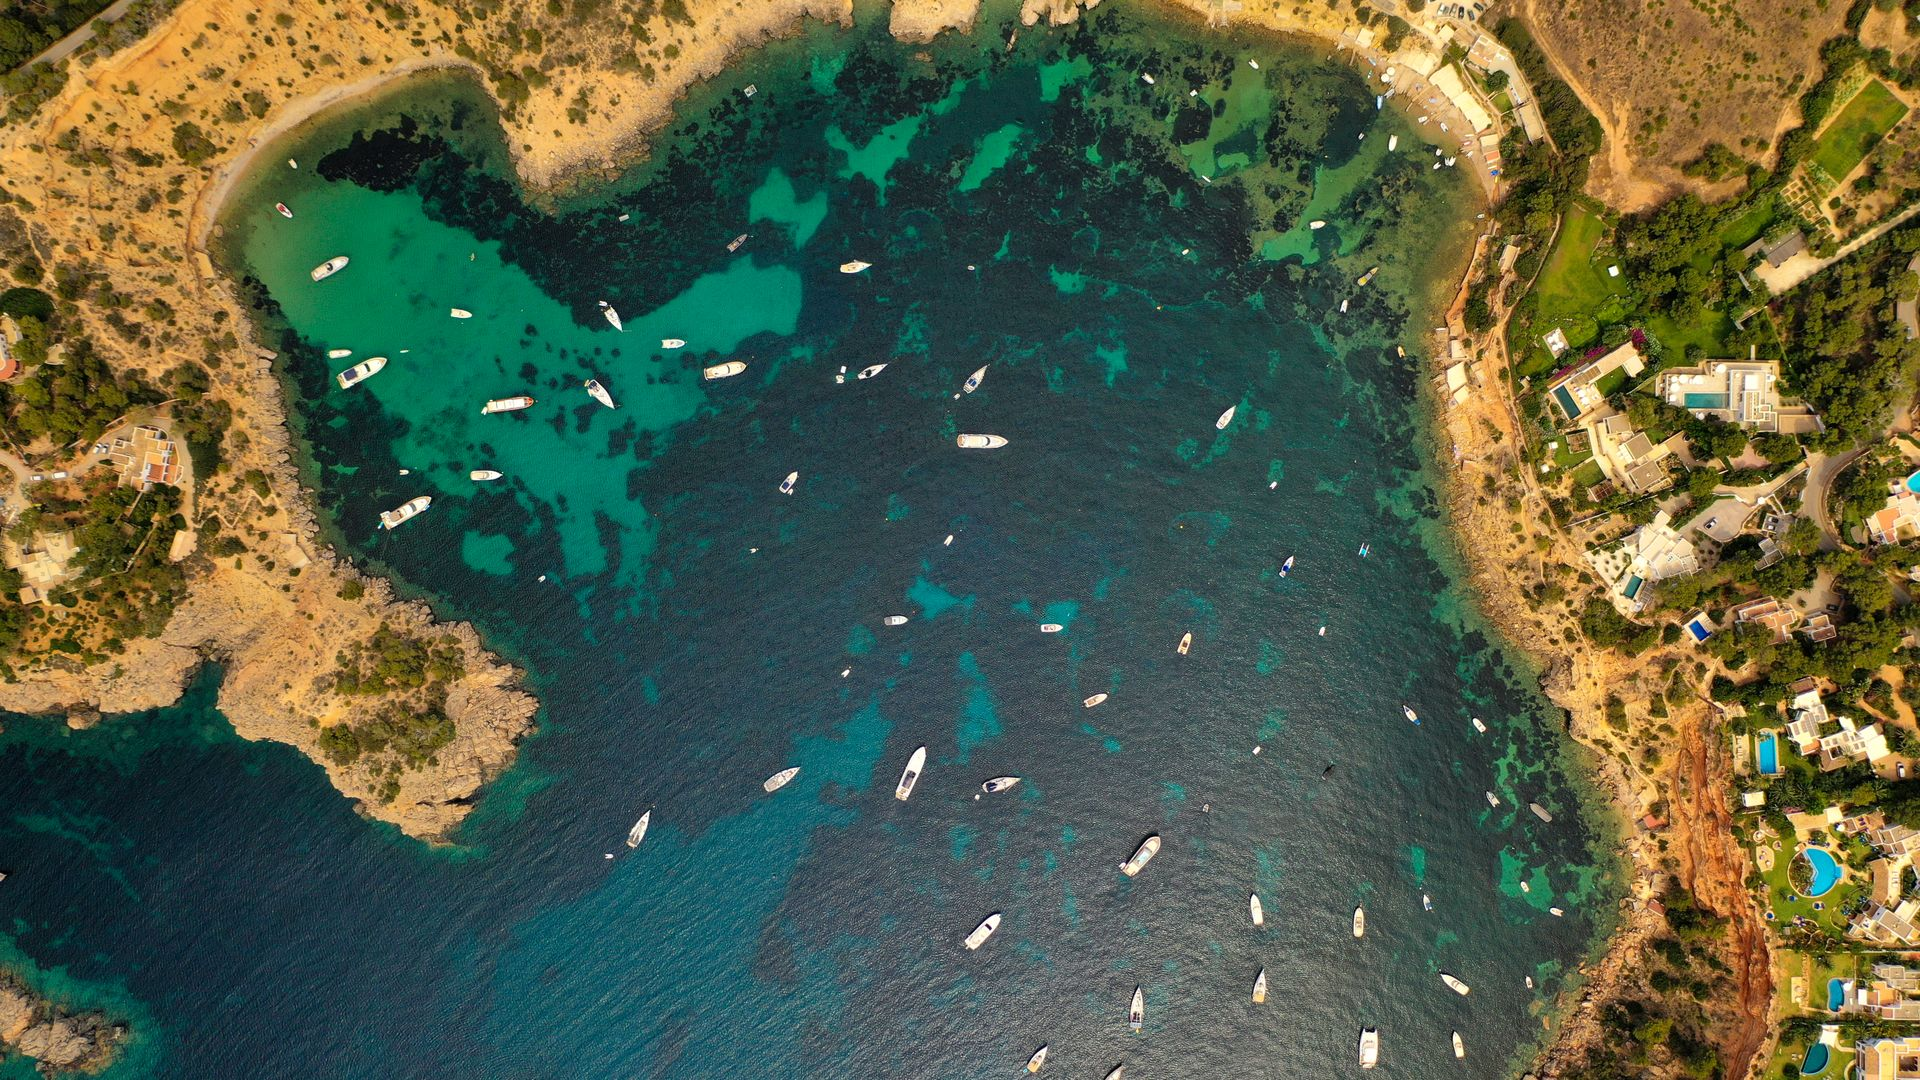
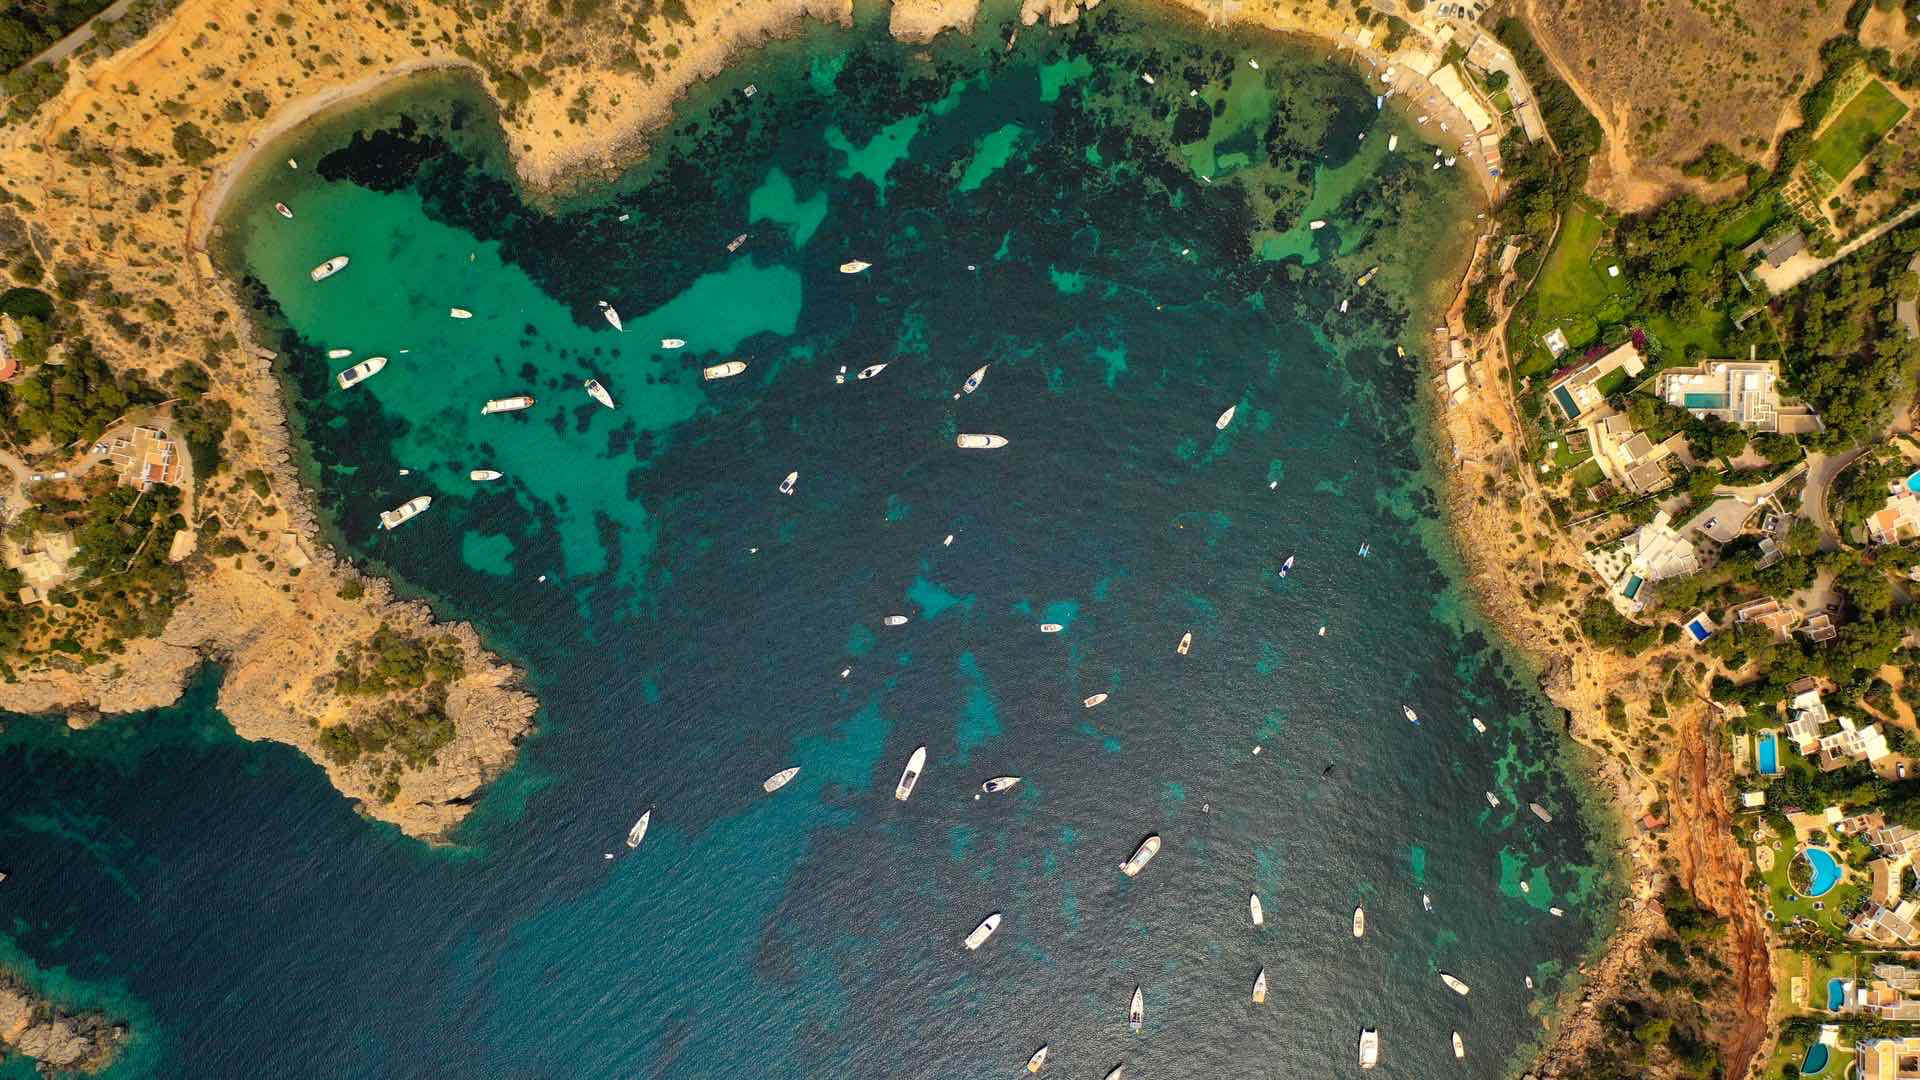
perf: compress backgrounds, remove unused image + test artifact, slim player

diff --git a/player.html b/player.html
@@ -9,9 +9,6 @@ html,body{width:100%;height:100%;margin:0;padding:0;background:#000;overflow:hid
 #o{position:fixed;top:0;left:0;right:0;bottom:0;display:none;background:rgba(0,0,0,0.85);z-index:9998;cursor:pointer;align-items:center;justify-content:center;flex-direction:column}
 #o .b{background:#fff;color:#000;font:600 18px/1 Arial,sans-serif;padding:14px 28px;border-radius:999px;border:none;cursor:pointer;min-width:160px}
 #o .t{color:#fff;font:400 16px/1.4 Arial,sans-serif;margin-bottom:12px;text-align:center}
-#d{position:fixed;top:0;left:0;right:0;background:rgba(0,0,0,0.85);color:#0f0;font-size:11px;font-family:monospace;padding:6px 10px;z-index:9999;max-height:40vh;overflow-y:auto;display:none;pointer-events:none}
-#d .err{color:#f44} #d .ok{color:#0f0} #d .skip{color:#fa0}
-#dt{position:fixed;top:4px;left:4px;z-index:10000;background:rgba(0,0,0,0.5);color:#0f0;font:11px/1 monospace;padding:3px 6px;border-radius:3px;cursor:pointer;border:1px solid #0f0;display:none}
 #vol{position:fixed;bottom:16px;right:16px;z-index:9997;background:rgba(0,0,0,0.7);color:#fff;border:1px solid rgba(255,255,255,0.3);padding:8px 14px;font-size:13px;cursor:pointer;border-radius:6px;display:none}
 #s{position:fixed;top:10px;right:10px;z-index:9997;max-height:60vh;overflow-y:auto}
 #s button{display:block;width:100%;background:rgba(0,0,0,0.7);color:#fff;border:1px solid rgba(255,255,255,0.2);padding:4px 10px;font-size:10px;cursor:pointer;text-align:left;margin-bottom:4px}
@@ -19,27 +16,26 @@ html,body{width:100%;height:100%;margin:0;padding:0;background:#000;overflow:hid
 #st{position:fixed;top:50%;left:50%;transform:translate(-50%,-50%);z-index:9996;color:#fff;font:600 17px/1.5 Arial,sans-serif;text-align:center;text-shadow:0 1px 4px #000;pointer-events:none;display:none;padding:0 20px}
 </style>
 </head><body>
-<div id="d"><div class="ok">YD Player v6.0</div></div>
 <div id="st"></div>
-<div id="dt" title="Double-click to toggle debug log">DBG</div>
 <button id="vol" title="Toggle mute/unmute">VOL</button>
 <iframe id="v" title="Video Player" allow="encrypted-media; fullscreen *; autoplay *; picture-in-picture *" allowfullscreen></iframe>
 <div id="o"><div><div class="t">Autoplay blocked</div><button class="b" onclick="startPlay()">Start playback</button></div></div>
 <div id="s"></div>
 <script>
-(function() {
-var r=location.search.match(/[?&]tmdb=([^&]*)/),t=(r&&r[1])||'278';
-var rs=location.search.match(/[?&]s=([^&]*)/),ss=(rs&&rs[1])||'';
-var re=location.search.match(/[?&]e=([^&]*)/),se=(re&&re[1])||'';
-var isTV=!!(ss&&se);
-var log=document.getElementById('d');
-var v=document.getElementById('v');
-var o=document.getElementById('o');
-var st=document.getElementById('st');
-var loaded=false,retries=0;
+ (function() {
+ var r=location.search.match(/[?&]tmdb=([^&]*)/),t=(r&&r[1])||'278';
+ var rs=location.search.match(/[?&]s=([^&]*)/),ss=(rs&&rs[1])||'';
+ var re=location.search.match(/[?&]e=([^&]*)/),se=(re&&re[1])||'';
+ var isTV=!!(ss&&se);
+ var v=document.getElementById('v');
+ var o=document.getElementById('o');
+ var st=document.getElementById('st');
+ var loaded=false,retries=0,timers=[];
 
-function setStatus(msg,show){if(!st)return;st.textContent=msg||'';st.style.display=show?'block':'none';}
-var providers=[
+ function setStatus(msg,show){if(!st)return;st.textContent=msg||'';st.style.display=show?'block':'none';}
+ function clearTimers(){for(var j=0;j<timers.length;j++)clearTimeout(timers[j]);timers=[];}
+
+ var providers=[
 {key:'videasy',n:'VidEasy',m:'https://player.videasy.net/movie/'+t+'',tv:'https://player.videasy.net/tv/'+t+'/'+ss+'/'+se+''},
 {key:'vidup',n:'VidUp',m:'https://vidup.to/movie/'+t+'',tv:'https://vidup.to/tv/'+t+'/'+ss+'/'+se+''},
 {key:'vidcore7',n:'VidCore7',m:'https://vidcore.net/movie/'+t+'',tv:'https://vidcore.net/tv/'+t+'/'+ss+'/'+se+''},
@@ -57,58 +53,41 @@ var providers=[
 {key:'multiembed',n:'MultiEmbed',m:'https://multiembed.mov/?video_id='+t+'&tmdb=1',tv:'https://multiembed.mov/?video_id='+t+'&tmdb=1&s='+ss+'&e='+se+''},
 {key:'vidsrc',n:'VidSrc',m:'https://vidsrc.fyi/embed/movie/'+t+'',tv:'https://vidsrc.fyi/embed/tv/'+t+'/'+ss+'/'+se+''}
 ];
-var saved=null;
-try{saved=localStorage.getItem('yd-player');}catch(e){}
-var cur=saved;if(!cur)cur=providers[0]?providers[0].key:null;
-var timers=[];
+ function idx(key){for(var j=0;j<providers.length;j++){if(providers[j].key===key)return j;}return -1;}
+ function pby(key){var i=idx(key);return i>=0?providers[i]:null;}
+ function url(p){return isTV?(p.tv||p.m):p.m;}
 
-function idx(key){for(var j=0;j<providers.length;j++){if(providers[j].key===key)return j;}return -1;}
-function pby(key){for(var j=0;j<providers.length;j++){if(providers[j].key===key)return providers[j];}return null;}
+ var saved=null;try{saved=localStorage.getItem('yd-player');}catch(e){}
+ var cur=(saved&&idx(saved)>=0)?saved:(providers[0]?providers[0].key:null);
 
-function L(m,c){var e=document.createElement('div');if(c)e.className=c;var d=new Date();e.textContent=d.getHours()+':'+d.getMinutes()+':'+d.getSeconds()+' '+m;log.insertBefore(e,log.firstChild||null);}
+ var btnEls={};
+ function buildButtons(){var s=document.getElementById('s');if(!s||Object.keys(btnEls).length)return;
+  for(var j=0;j<providers.length;j++){var p=providers[j];var b=document.createElement('button');b.textContent=p.n;b.onclick=(function(k){return function(){if(k!==cur)load(k);};})(p.key);s.appendChild(b);btnEls[p.key]=b;}
+  markActive();}
+ function markActive(){for(var k in btnEls){btnEls[k].className=(k===cur)?'a':'';}}
 
-function url(p){return isTV?(p.tv||p.m):p.m;}
-
-function load(key){if(key)cur=key;try{localStorage.setItem('yd-player',cur);}catch(e){}
- loaded=false;retries=0;o.style.display='none';setStatus('Loading '+pby(cur).n+' ...',true);
+ function load(key){if(key)cur=key;try{localStorage.setItem('yd-player',cur);}catch(e){}
+  loaded=false;retries=0;o.style.display='none';setStatus('Loading '+(pby(cur)?pby(cur).n:'')+' ...',true);
   try{v.src='about:blank';}catch(e){}
-  var p=pby(cur);
-  if(!p){L('No provider','err');setStatus('No provider',true);return;}
-  L('Trying '+p.n+'...');
-  v.src=url(p);
-  renderButtons();
-  for(var j=0;j<timers.length;j++){clearTimeout(timers[j]);}timers=[];
-  timers.push(setTimeout(function(){if(!loaded){L('Timeout '+p.n,'err');setStatus(p.n+': timeout',true);next();}else L('Loaded '+p.n+' (stream may take time)','ok');},15000));
-}
+  var p=pby(cur);if(!p){setStatus('No provider',true);return;}
+  v.src=url(p);markActive();clearTimers();
+  timers.push(setTimeout(function(){if(!loaded){setStatus(p.n+': timeout',true);next();}},15000));}
 
-function next(){var ci=idx(cur);if(ci>=0&&ci<providers.length-1){L('Next: '+providers[ci+1].n,'skip');load(providers[ci+1].key);}else{L('ALL FAILED - restarting','err');setStatus('All providers failed on this TV browser',true);cur=providers[0]?providers[0].key:null;setTimeout(function(){load();},2000);}}
+ function next(){var ci=idx(cur);if(ci>=0&&ci<providers.length-1){load(providers[ci+1].key);}else{setStatus('All providers failed on this TV browser',true);cur=providers[0]?providers[0].key:null;clearTimers();timers.push(setTimeout(load,2000));}}
 
-function startPlay(){retries=0;o.style.display='none';attemptPlay();}
+ function startPlay(){retries=0;o.style.display='none';attemptPlay();}
+ function attemptPlay(){if(retries>=4)return;try{v.contentWindow.postMessage({command:'muteAndPlay'},'*');}catch(e){}retries++;if(retries<4)timers.push(setTimeout(attemptPlay,600));}
 
-function attemptPlay(){if(retries>=4)return;try{v.contentWindow.postMessage({command:'muteAndPlay'},'*');}catch(e){}retries++;if(retries<4){timers.push(setTimeout(attemptPlay,600));}}
+ v.onload=function(){loaded=true;clearTimers();o.style.display='none';setStatus('',false);attemptPlay();};
+ v.onerror=function(){setStatus(cur+': error',true);next();};
 
-v.onload=function(){loaded=true;for(var j=0;j<timers.length;j++){clearTimeout(timers[j]);}timers=[];L('Page loaded: '+cur,'ok');o.style.display='none';setStatus('',false);attemptPlay();};
-v.onerror=function(){L('Error: '+cur,'err');setStatus(cur+': error',true);next();};
+ window.addEventListener('message',function(e){var d=e.data;if(!d||typeof d!=='object')return;
+  if(/fullscreen/i.test((d.type||'')+'|'+(d.name||'')+'|'+(d.command||''))){var el=v;if(document.fullscreenElement||document.webkitFullscreenElement){if(document.exitFullscreen)document.exitFullscreen();else if(document.webkitExitFullscreen)document.webkitExitFullscreen();}else{if(el.requestFullscreen)el.requestFullscreen();else if(el.webkitRequestFullscreen)el.webkitRequestFullscreen();}}
+ });
 
-window.addEventListener('message',function(e){var d=e.data;if(!d||typeof d!=='object')return;
- if(d.type==='PLAYER_EVENT'&&d.data&&d.data.event){}
- if(d.type==='MEDIA_DATA'&&d.data){}
- if(/fullscreen/i.test((d.type||'')+'|'+(d.name||'')+'|'+(d.command||''))){var el=v;if(document.fullscreenElement||document.webkitFullscreenElement){if(document.exitFullscreen)document.exitFullscreen();else if(document.webkitExitFullscreen)document.webkitExitFullscreen();}else{if(el.requestFullscreen)el.requestFullscreen();else if(el.webkitRequestFullscreen)el.webkitRequestFullscreen();}}
-});
+ var vol=document.getElementById('vol');
+ if(vol){vol.style.display='block';vol.onclick=function(){try{v.contentWindow.postMessage({command:'muteAndPlay'},'*');}catch(e){}};}
 
-function renderButtons(){var s=document.getElementById('s');s.innerHTML='';
- for(var j=0;j<providers.length;j++){var p=providers[j];var b=document.createElement('button');b.textContent=p.n+(p.key===cur?' ▸':'');if(p.key===cur)b.className='a';
-  b.onclick=function(){if(p.key!==cur)load(p.key);};s.appendChild(b);}}
-
-var dbg=document.getElementById('d');
-var dt=document.getElementById('dt');
-function togdbg(){if(!dbg||!dt)return;var v=dbg.style.display==='none';dbg.style.display=v?'block':'none';dt.style.display=v?'none':'block';dt.textContent=v?'DBG':'DBG ON';}
-if(dt){dt.style.display='block';dt.onclick=togdbg;}
-if(dbg){dbg.ondblclick=togdbg;document.getElementById('d').style.display='none';}
-
-var vol=document.getElementById('vol');
-if(vol){vol.style.display='block';vol.onclick=function(){try{v.contentWindow.postMessage({command:'muteAndPlay'},'*');}catch(e){}L('Volume toggle sent','ok');}}
-
-renderButtons();
-load();
-})();</body></html>
+ buildButtons();
+ load();
+ })();</body></html>